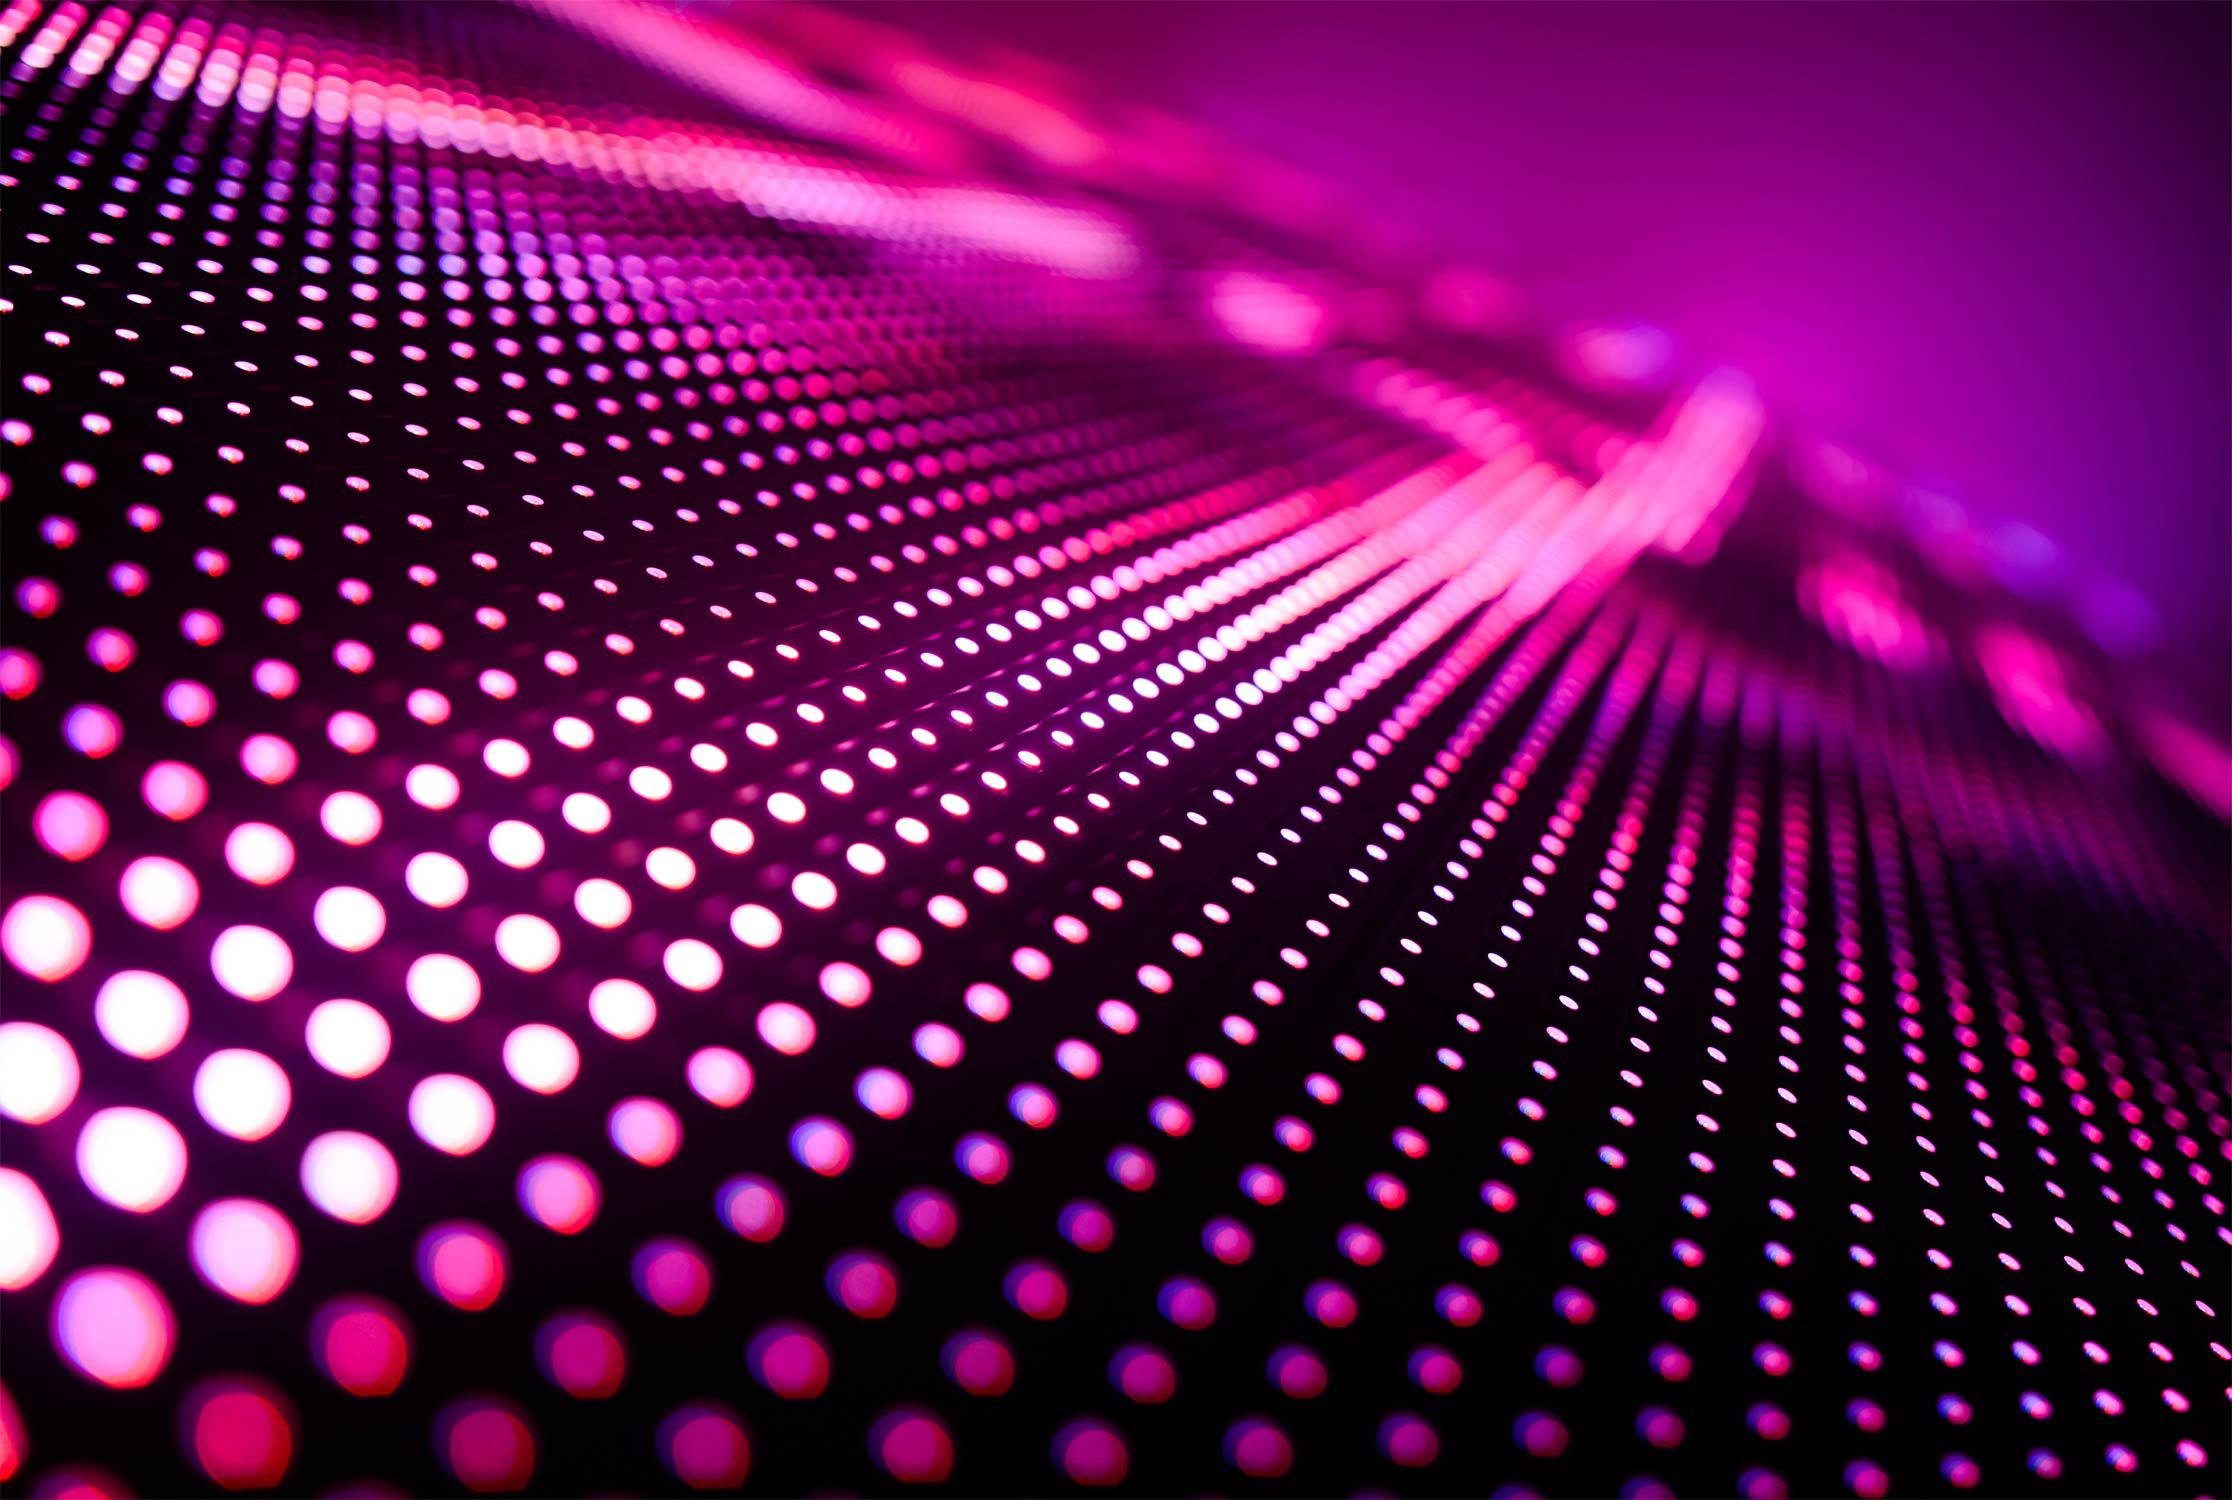
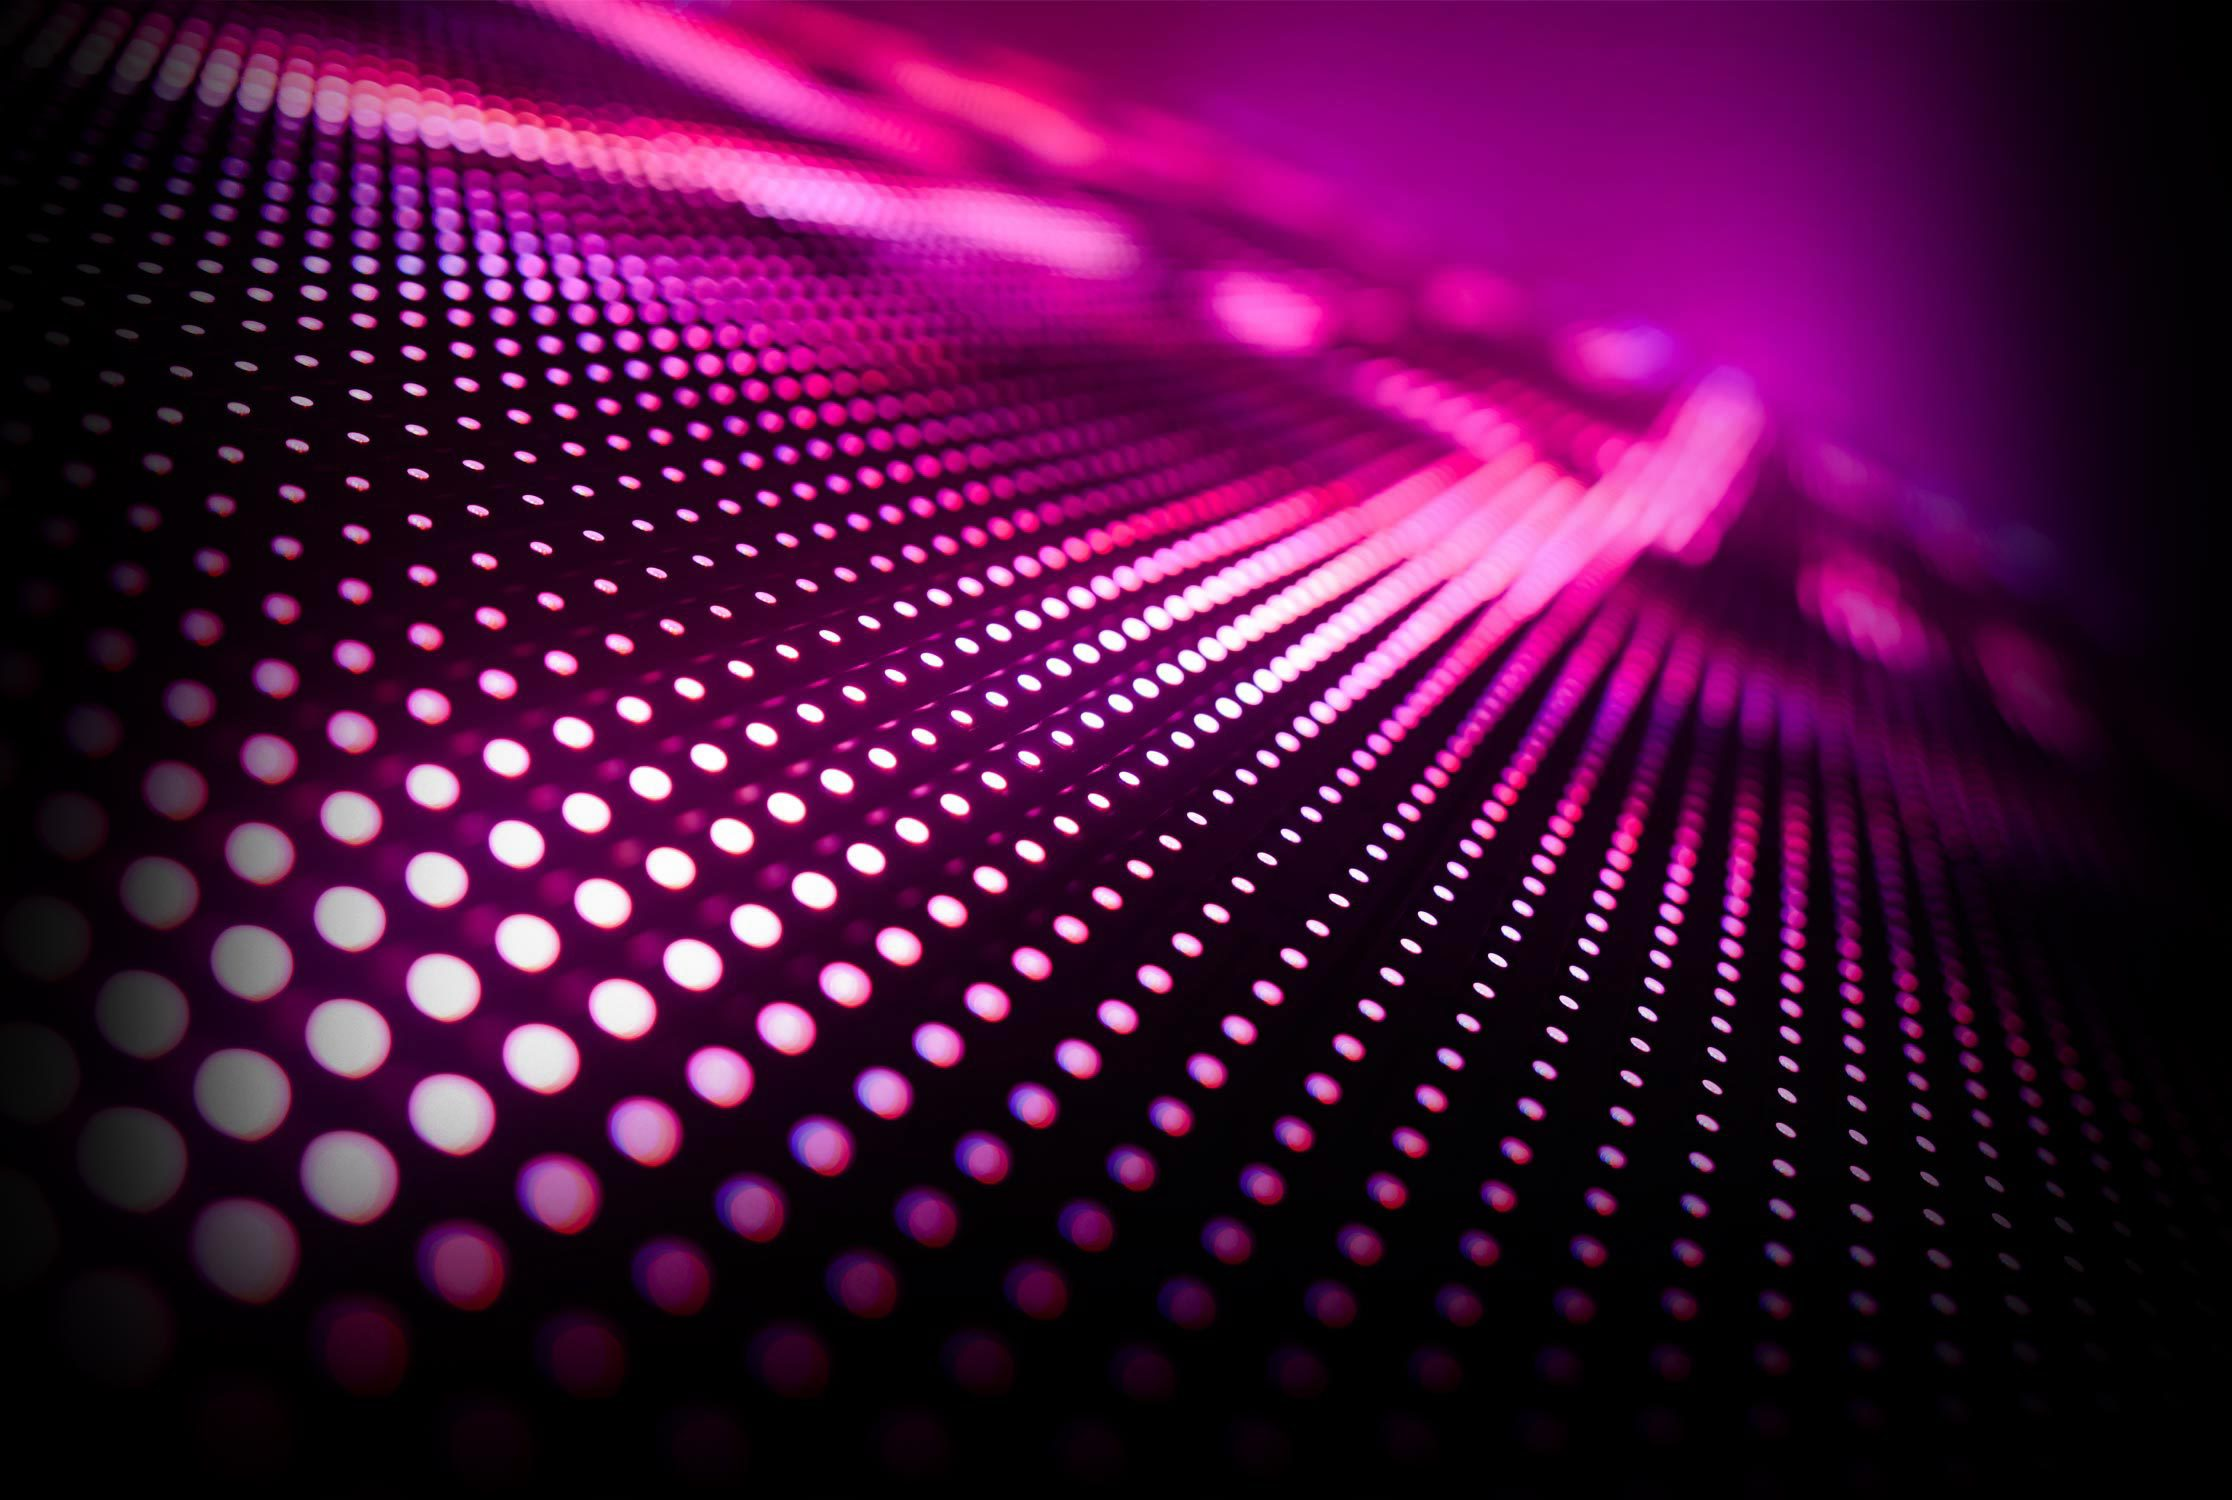
Add new image and change background color to match.

Changed region(s): [[0.0, 0.0, 1.0, 1.0], [0.8038, 0.0, 1.0, 0.644], [0.3091, 0.7053, 0.3401, 0.736]]

diff --git a/themes/koas/assets/css/sass/light-theme/base/_overrides.scss b/themes/koas/assets/css/sass/light-theme/base/_overrides.scss
@@ -18,6 +18,6 @@ a:hover .highlights__community--title {
 		background-image: url("../../images/koas-wallpaper-2019.jpg");
 		background-position: top center;
 		background-repeat: no-repeat;
-		background-color: #14001b;
+		background-color: #000000;
 	}
 }
